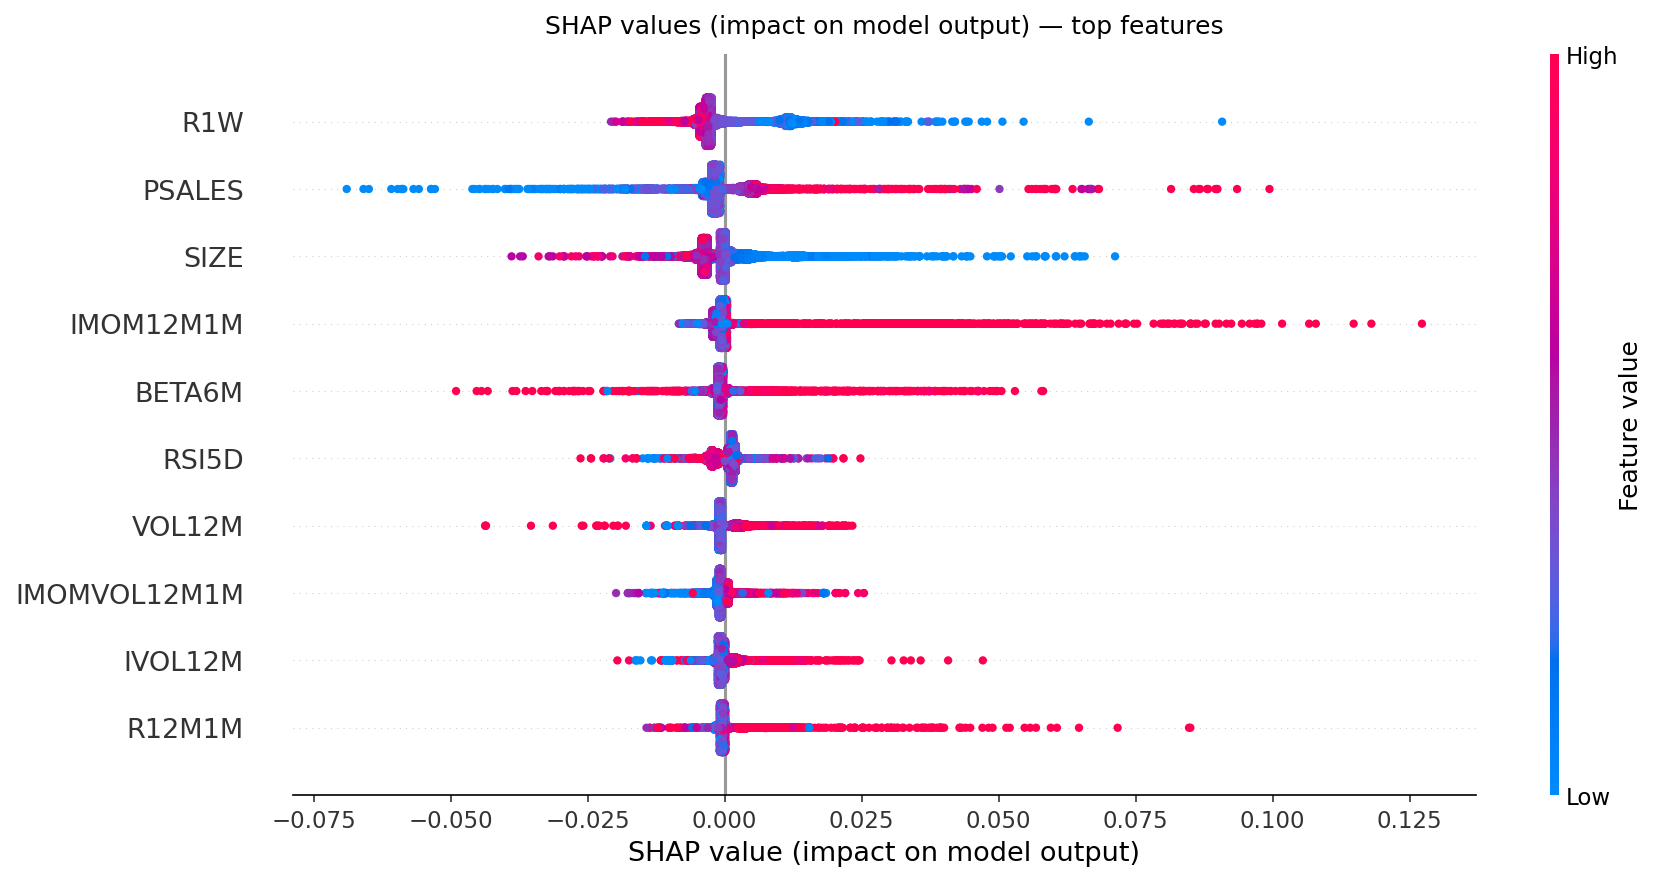
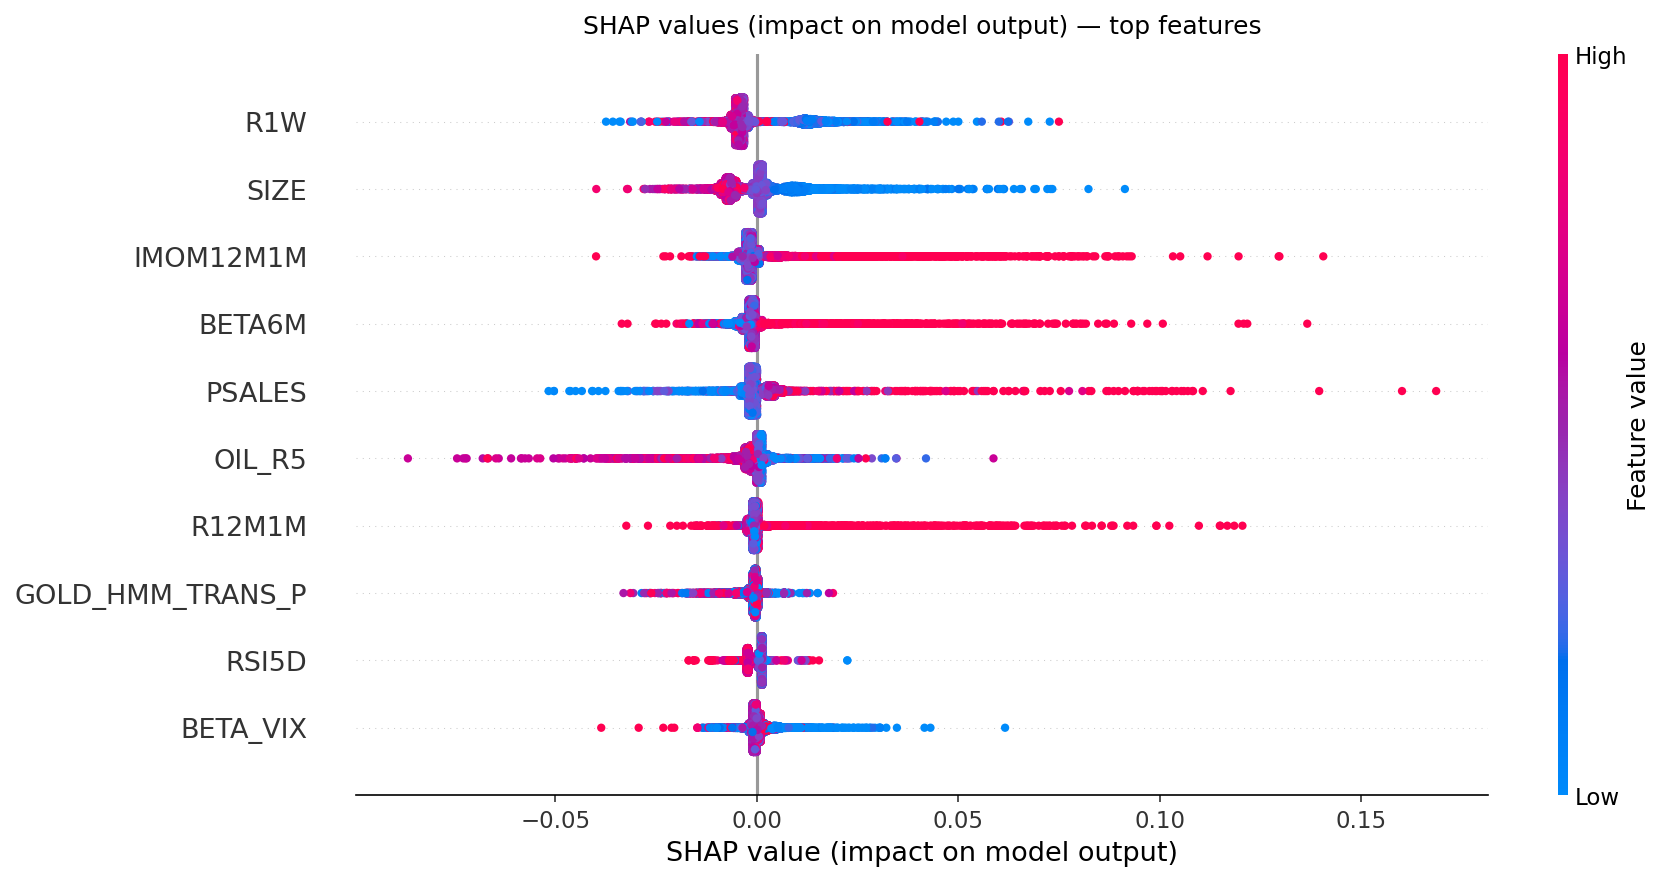
docs+report: record 106-factor run results; fix report factor_count
- CLAUDE.md: R1W confirmed #1 SHAP (was #4); factor count 24→106 with
  expanded group table; backtest scope + baseline updated to the
  2026-06-06 run (ensemble IR 1.06, LGB 1.17, RF 1.14, baseline 1.09).
- reporting/pack.py: derive run_metadata.factor_count from the run's
  SHAP feature_importance row count instead of the hardcoded
  PHASE1_FACTORS list (was emitting 13 for a 106-factor run); falls
  back to PHASE1_FACTORS when artifacts are absent.
- refresh persisted SHAP figures from the 106-factor run.

diff --git a/src/reporting/pack.py b/src/reporting/pack.py
@@ -282,10 +282,22 @@ def build_research_pack(processed_dir: Path | None = None) -> dict:
     }
     # Per-member SHAP top features, alongside the canonical (XGBoost) one.
     shap_per_member = {}
+    canonical_imp_df = None
     for member in ensemble_members:
         suffix = "" if member == "xgboost" else f"_{member}"
         imp_df = _safe_read_parquet(p_dir / f"feature_importance{suffix}.parquet")
+        if member == "xgboost":
+            canonical_imp_df = imp_df
         shap_per_member[member] = _summarize_shap(imp_df)
+
+    # Actual factor count = number of model inputs in this run, read from the
+    # SHAP importance table (one row per input feature). Falls back to the
+    # hardcoded Phase-1 list if artifacts are missing.
+    actual_factor_count = (
+        len(canonical_imp_df)
+        if canonical_imp_df is not None and not canonical_imp_df.empty
+        else len(PHASE1_FACTORS)
+    )
 
     pack = {
         "schema_version": 3,
@@ -298,7 +310,7 @@ def build_research_pack(processed_dir: Path | None = None) -> dict:
                 "start": cfg["data"].get("start_date"),
                 "end": cfg["data"].get("end_date"),
             },
-            "factor_count": len(PHASE1_FACTORS),
+            "factor_count": actual_factor_count,
             "config_factor_count_phase1": len(PHASE1_FACTORS),  # back-compat
             "config_train_weeks": cfg["model"].get("train_weeks"),
             "config_val_weeks": cfg["model"].get("val_weeks"),

diff --git a/CLAUDE.md b/CLAUDE.md
@@ -39,17 +39,18 @@ tests/          — unit and integration tests
 
 ## Factor Groups
 
-Currently 24 factors live in the model (vs paper's 86):
+Currently 106 factors live in the model (vs paper's 86). Representative members per group (not exhaustive):
 
 | Group | Factors | Data Source |
 |---|---|---|
-| Price Reversals | R1W, IREV1W (beta-adjusted residual), RSI5D, RSI14, RSI30 | FMP / Databento prices |
-| Price Momentum | R1M, R3M1M, R6M1M, R12M1M | FMP / Databento prices |
-| Low Risk | VOL6M, VOL12M, BETA6M | FMP / Databento prices + market index |
-| Value | PE, PB, EVEBIT, EVEBITDA, EVSALES | SimFin / FMP fundamentals |
-| Profitability / Quality | ROE, ROA, GPOA, OPRDIC, GBROC, DE, ACCRUALS, SALES_GROWTH_YOY | SimFin / FMP fundamentals |
+| Price Reversals | R1W, IREV1W (beta-adjusted residual), IREV1M, IREVVOL1W, IREVVOL1M, RSI5D, RSI14, RSI30 | FMP / Databento prices |
+| Price Momentum | R1M, R3M1M, R6M1M, R12M1M, IMOM12M1M, IMOM3M1M, IMOMVOL12M1M, IMOMVOL3M1M | FMP / Databento prices |
+| Size | SIZE (log market cap) | FMP / Databento prices |
+| Low Risk | VOL6M, VOL12M, IVOL6M, IVOL12M, DOWNVOL6M, BETA6M, BETA12M, plus macro betas (BETA_VIX, BETA_US10Y, BETA_OIL, BETA_DXY) | FMP / Databento prices + market/macro series |
+| Value | PE, PB, PTB, PSALES, EVEBIT, EVEBITDA, EVSALES | SimFin / FMP fundamentals |
+| Profitability / Quality / Leverage | ROE, ROA, ROIC, GPOA, GBROC, OPRDIC, OPRDA, GROSSMARGIN, EBIT_COVER, ACCRUALS, SALES_GROWTH_YOY, DE, DEBITDA, NDE, NDEBITDA, LTDE, LTDEBITDA | SimFin / FMP fundamentals |
 | Analyst (UPDOWN1W proxy) | UPDOWN1W_RATINGS | FMP `/grades` (rating-change events, *not* EPS-revision counts) |
-| Macro / Regime (passthrough) | macro returns + HMM-regime posteriors | FMP series + fitted HMM in `src/features/regime.py` |
+| Macro / Regime (passthrough) | macro 5-day returns (OIL_R5, GOLD_R5, SPX_R5, DXY_R5, US10Y_D5, VIX_D5…) + per-series HMM-regime posteriors (S0/S1/transition across ~13 series: SPX, NDX, RUT, VIX, OIL, GOLD, COPPER, DXY, EURUSD, USDJPY, US3M/10Y/30Y) + trend/level flags (OIL_TREND_UP, US10Y_HI…) | FMP series + fitted HMM in `src/features/regime.py` |
 
 **Gap vs paper**: true UPDOWN1W (EPS-estimate-revision count) and SUE1W/3/6 are
 absent — gated on an IBES / Refinitiv / FMP-estimates sourcing decision (see
@@ -95,16 +96,16 @@ pytest tests/test_neutralization_stacked.py  # single test
 
 Paper claims to verify; current state in parentheses:
 
-- R1W should emerge as the top SHAP feature organically — **not confirmed** (currently #4; VOL12M and VOL6M lead)
-- 7-day EPS revision should rank second — **untestable** (true UPDOWN1W not yet sourced; the FMP-grades proxy `UPDOWN1W_RATINGS` ranks #23)
+- R1W should emerge as the top SHAP feature organically — **confirmed** in the 106-factor run (R1W now #1 in the ensemble and in xgb/lgb/rf individually; VOL12M demoted to #9, VOL6M to #28). Was #4 in the 24-factor run — the factor expansion fixed it.
+- 7-day EPS revision should rank second — **untestable** (true UPDOWN1W not yet sourced; the FMP-grades proxy `UPDOWN1W_RATINGS` ranks #102 of 106)
 - Alpha decay test: plot annualized IR vs 0-4 day execution lags — **confirmed** (monotone 12.7% → 4.7%)
 - Weekday effect: Thursday signals should outperform Monday signals — **confirmed and stronger** (monotone Mon→Fri ramp, 22% → 35%)
 - Quintile spread: monotonic returns from Q1 (short) to Q5 (long) — TODO surface in Streamlit
-- Compare ML model vs R1W-only baseline — done (ensemble IR 1.00 vs baseline ~1.10; ML's edge is in turnover/drawdown, not return)
+- Compare ML model vs R1W-only baseline — done (106-factor run: ensemble IR 1.06 vs baseline 1.09; ML's edge is in turnover/drawdown, not return)
 - vs earnings-filtered reversal baseline — gated on Phase 2 UPDOWN1W
 
 ## Backtest Scope
 
-Phase 1 (shipped 2026-05-15): multi-region US/UK/CA (S&P 500 ex-financials PIT, FTSE 100 + TSX 60 snapshot), 2008-01-30 → 2026-05-13 (955 weeks), 24 factors, ensemble of XGB + LGB + RF + MLP. Ensemble IR (net of 1.5 bps/side, 1-day lag) = 1.00; best member (RF) = 1.13; paper net Global L/S IR = 1.6. R1W reversal baseline IR ≈ 1.10. See [`.specify/007-implementation-plan.md`](.specify/007-implementation-plan.md) for the full results table.
+Phase 1 (shipped 2026-05-15): multi-region US/UK/CA (S&P 500 ex-financials PIT, FTSE 100 + TSX 60 snapshot), 2008-01-30 → 2026-05-13 (955 weeks), ensemble of XGB + LGB + RF + MLP. Latest run (2026-06-06) expands the factor set to **106 factors** over 690 backtest weeks: ensemble IR (net of 1.5 bps/side, 1-day lag) = 1.06; best member (LGB) = 1.17, RF = 1.14; paper net Global L/S IR = 1.6. R1W reversal baseline IR = 1.09. (The earlier 24-factor run scored ensemble IR 1.00, RF 1.13.) See [`.specify/007-implementation-plan.md`](.specify/007-implementation-plan.md) for the full results table.
 
 Phase 2 priorities (ordered by expected information value): true UPDOWN1W from IBES/Refinitiv/FMP-estimates → region × industry quintile peer grouping → factor expansion toward 86 → 520/104 train/val window → EU + JP regions. See [`.specify/001-overview.md`](.specify/001-overview.md) for phase boundaries and [`.specify/007-implementation-plan.md`](.specify/007-implementation-plan.md) for the ordered work list.
